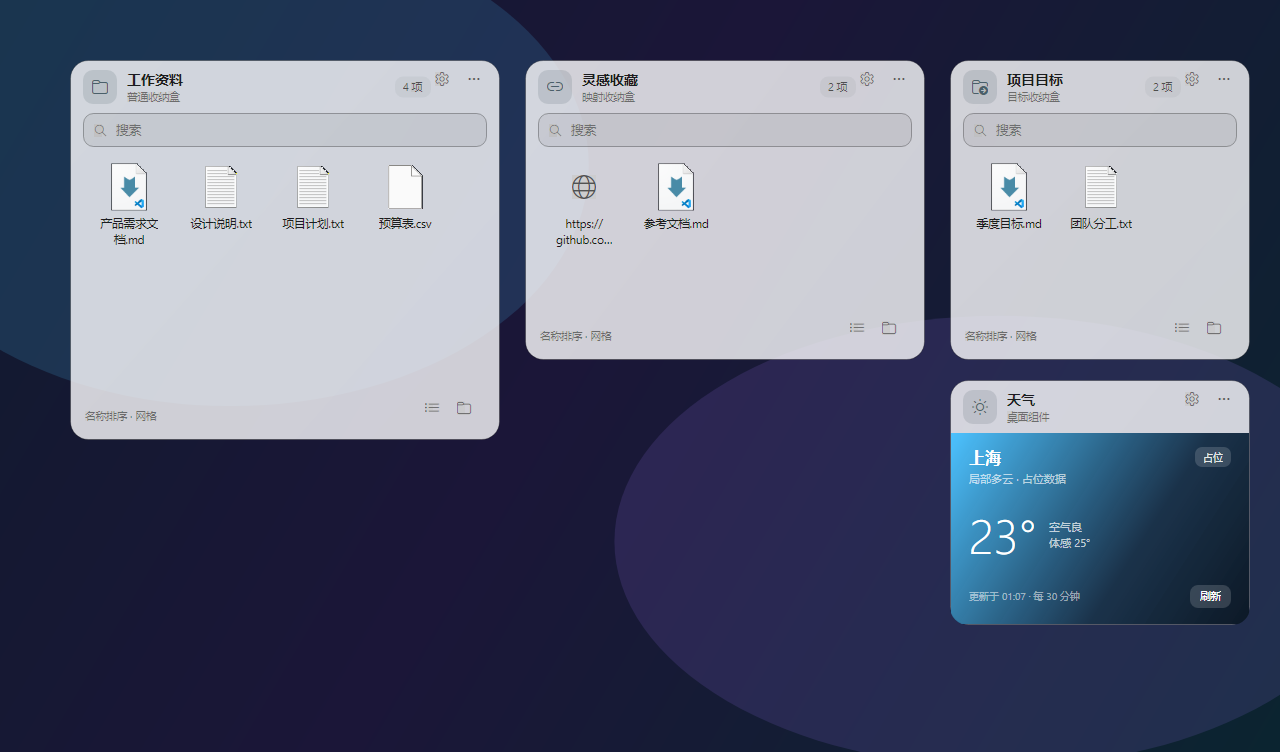
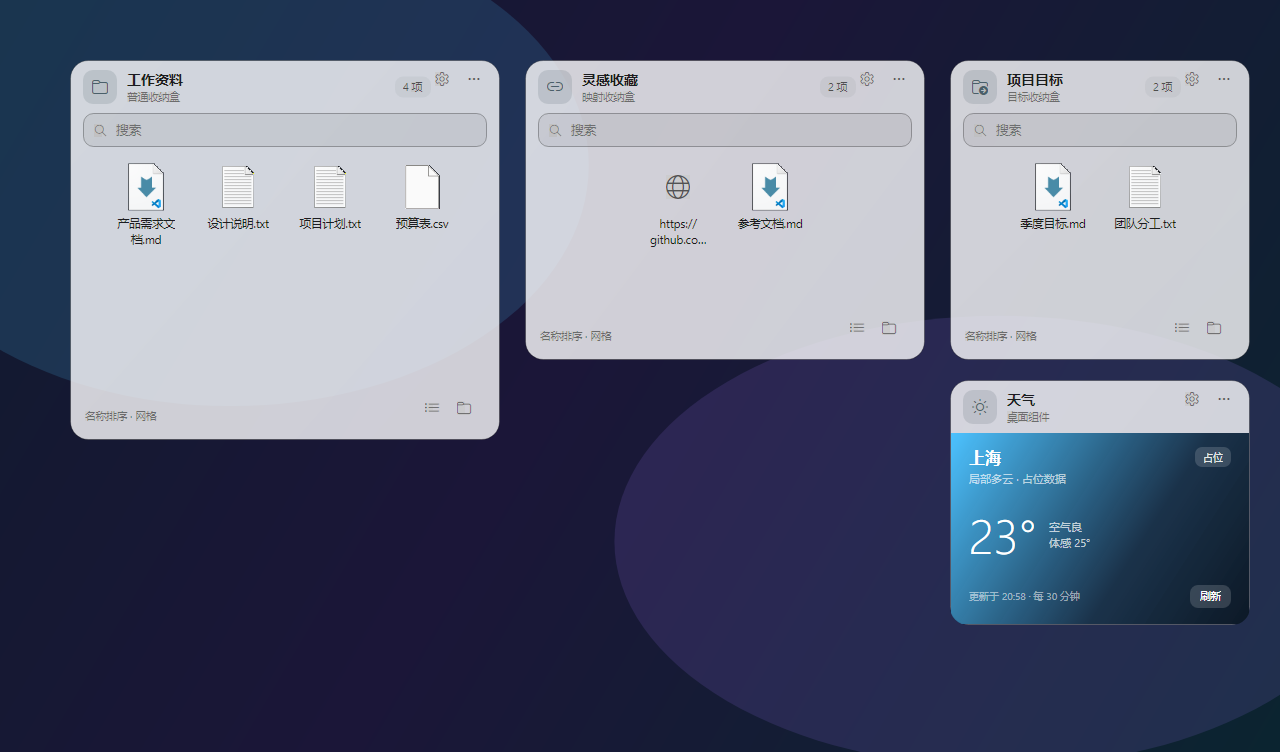
1.0.2：修复收纳盒图标偏移，图标网格与设置页图标居中

diff --git a/src/PocketDesk.Settings/MainWindow.xaml b/src/PocketDesk.Settings/MainWindow.xaml
@@ -63,7 +63,7 @@
             <NavigationView.PaneFooter>
                 <StackPanel Margin="14,4,14,12" Spacing="6">
                     <Button x:Name="RefreshButton" Content="刷新" FontSize="12" Padding="10,5" Click="OnRefreshClick" HorizontalAlignment="Stretch" />
-                    <TextBlock Text="PocketDesk-New 1.0.1" FontSize="10" Opacity="0.55" Margin="2,0,0,0" />
+                    <TextBlock Text="PocketDesk-New 1.0.2" FontSize="10" Opacity="0.55" Margin="2,0,0,0" />
                 </StackPanel>
             </NavigationView.PaneFooter>
             <ScrollViewer x:Name="ContentScroll"

diff --git a/src/PocketDesk.Host/Views/BoxCardContent.cs b/src/PocketDesk.Host/Views/BoxCardContent.cs
@@ -281,7 +281,7 @@ public sealed class BoxCardContent : UserControl
             _list.ItemsPanel = new FuncTemplate<Panel?>(() => new WrapPanel
             {
                 Orientation = Orientation.Horizontal,
-                HorizontalAlignment = HorizontalAlignment.Left,
+                HorizontalAlignment = HorizontalAlignment.Center,
                 VerticalAlignment = VerticalAlignment.Top,
             });
         }
@@ -310,6 +310,8 @@ public sealed class BoxCardContent : UserControl
                 Width = _card.IconSize,
                 Height = _card.IconSize,
                 Stretch = Stretch.Uniform,
+                HorizontalAlignment = HorizontalAlignment.Center,
+                VerticalAlignment = VerticalAlignment.Center,
                 Source = item.Icon,
             };
             var placeholder = new TextBlock
@@ -321,7 +323,13 @@ public sealed class BoxCardContent : UserControl
                 HorizontalAlignment = HorizontalAlignment.Center,
                 VerticalAlignment = VerticalAlignment.Center,
             };
-            var iconLayer = new Grid { Width = _card.IconSize, Height = _card.IconSize };
+            var iconLayer = new Grid
+            {
+                Width = _card.IconSize,
+                Height = _card.IconSize,
+                HorizontalAlignment = HorizontalAlignment.Center,
+                VerticalAlignment = VerticalAlignment.Center,
+            };
             iconLayer.Children.Add(placeholder);
             iconLayer.Children.Add(icon);
             item.PropertyChanged += (_, e) =>
@@ -385,6 +393,8 @@ public sealed class BoxCardContent : UserControl
                 Width = 28,
                 Height = 28,
                 Stretch = Stretch.Uniform,
+                HorizontalAlignment = HorizontalAlignment.Center,
+                VerticalAlignment = VerticalAlignment.Center,
                 Source = item.Icon,
             };
             var placeholder = new TextBlock
@@ -396,7 +406,13 @@ public sealed class BoxCardContent : UserControl
                 HorizontalAlignment = HorizontalAlignment.Center,
                 VerticalAlignment = VerticalAlignment.Center,
             };
-            var iconLayer = new Grid { Width = 32, Height = 32, VerticalAlignment = VerticalAlignment.Center };
+            var iconLayer = new Grid
+            {
+                Width = 32,
+                Height = 32,
+                HorizontalAlignment = HorizontalAlignment.Center,
+                VerticalAlignment = VerticalAlignment.Center,
+            };
             iconLayer.Children.Add(placeholder);
             iconLayer.Children.Add(icon);
             item.PropertyChanged += (_, e) =>

diff --git a/src/PocketDesk.Settings/Ui.cs b/src/PocketDesk.Settings/Ui.cs
@@ -1,4 +1,4 @@
-using Microsoft.UI;
+using Microsoft.UI;
 using Microsoft.UI.Text;
 using Microsoft.UI.Xaml;
 using Microsoft.UI.Xaml.Controls;
@@ -54,6 +54,35 @@ public static class Ui
         Padding = new Thickness(padding),
         Child = child,
     };
+
+    /// <summary>Win11 风格图标底座：强调色淡底 + 居中图标，避免 FontIcon 基线造成的视觉偏移。</summary>
+    public static Grid IconTile(string glyph, double size = 40, double glyphSize = 20, Brush? foreground = null)
+    {
+        var color = foreground ?? Accent;
+        var tile = new Grid
+        {
+            Width = size,
+            Height = size,
+            VerticalAlignment = VerticalAlignment.Center,
+            HorizontalAlignment = HorizontalAlignment.Center,
+        };
+        tile.Children.Add(new Border
+        {
+            Background = color,
+            Opacity = 0.14,
+            CornerRadius = new CornerRadius(size * 0.22),
+        });
+        tile.Children.Add(new FontIcon
+        {
+            Glyph = glyph,
+            FontSize = glyphSize,
+            Foreground = color,
+            HorizontalAlignment = HorizontalAlignment.Center,
+            VerticalAlignment = VerticalAlignment.Center,
+            Margin = new Thickness(0, 1, 0, 0),
+        });
+        return tile;
+    }
 
     public static TextBlock PageTitle(string text) => new()
     {

diff --git a/src/PocketDesk.Settings/Views/WidgetsPage.cs b/src/PocketDesk.Settings/Views/WidgetsPage.cs
@@ -95,13 +95,7 @@ public sealed class WidgetsPage : UserControl
             },
             ColumnSpacing = 10,
         };
-        var icon = new FontIcon
-        {
-            Glyph = type.Glyph,
-            FontSize = 22,
-            Foreground = Ui.Accent,
-            VerticalAlignment = VerticalAlignment.Center,
-        };
+        var icon = Ui.IconTile(type.Glyph, 36, 18);
         top.Children.Add(icon);
 
         var text = new StackPanel { Spacing = 1 };
@@ -178,13 +172,11 @@ public sealed class WidgetsPage : UserControl
             },
             ColumnSpacing = 10,
         };
-        var icon = new FontIcon
-        {
-            Glyph = type?.Glyph ?? "\uE8B7",
-            FontSize = 18,
-            Foreground = selected ? Ui.Accent : Ui.TextSecondary,
-            VerticalAlignment = VerticalAlignment.Center,
-        };
+        var icon = Ui.IconTile(
+            type?.Glyph ?? "\uE8B7",
+            32,
+            16,
+            selected ? Ui.Accent : Ui.TextSecondary);
         grid.Children.Add(icon);
 
         var text = new StackPanel { Spacing = 1, VerticalAlignment = VerticalAlignment.Center };

diff --git a/src/PocketDesk.Settings/Views/BoxesPage.cs b/src/PocketDesk.Settings/Views/BoxesPage.cs
@@ -80,19 +80,13 @@ public sealed class BoxesPage : UserControl
             ColumnSpacing = 12,
         };
 
-        var icon = new FontIcon
+        var iconGlyph = box.Type switch
         {
-            Glyph = box.Type switch
-            {
-                "Mapped" => "\uE71B",
-                "Target" => "\uE8DE",
-                _ => "\uE8B7",
-            },
-            FontSize = 22,
-            Foreground = Ui.Accent,
-            VerticalAlignment = VerticalAlignment.Center,
+            "Mapped" => "\uE71B",
+            "Target" => "\uE8DE",
+            _ => "\uE8B7",
         };
-        header.Children.Add(icon);
+        header.Children.Add(Ui.IconTile(iconGlyph, 40, 20));
 
         var text = new StackPanel { Spacing = 2, VerticalAlignment = VerticalAlignment.Center };
         text.Children.Add(new TextBlock

diff --git a/src/PocketDesk.Shared/AppInfo.cs b/src/PocketDesk.Shared/AppInfo.cs
@@ -4,7 +4,7 @@ namespace PocketDesk.Shared;
 public static class AppInfo
 {
     public const string ProductName = "PocketDesk-New";
-    public const string Version = "1.0.1";
+    public const string Version = "1.0.2";
     public const string HostPipeName = "PocketDeskNew.Host.v1";
     public const string HostMutexName = @"Local\PocketDesk-New.Host";
 

diff --git a/README.md b/README.md
@@ -4,7 +4,14 @@
 
 PocketDesk-New 用 **Avalonia** 实现透明、无焦点、停靠桌面层的组件宿主，用 **WinUI 3** 实现独立的设置界面，两者通过共享契约 + 命名管道 IPC 协作。它复用了旧版 PocketDesk 的 SQLite / Journal / 文件安全逻辑，但把“多窗口收纳盒”重构成了“一个组件层上的卡片”。
 
-> [下载 v1.0.1 安装包](https://github.com/ChunYu520/PocketDesk-New/releases/tag/v1.0.1) · [反馈问题](https://github.com/ChunYu520/PocketDesk-New/issues)
+> [下载 v1.0.2 安装包](https://github.com/ChunYu520/PocketDesk-New/releases/tag/v1.0.2) · [反馈问题](https://github.com/ChunYu520/PocketDesk-New/issues)
+
+## 1.0.2 更新
+
+- **修复收纳盒图标偏移**：网格收纳项改为整体居中排列，2 个图标不再挤在左侧；图标与名称统一居中。
+- **设置页图标对齐**：收纳盒/组件列表使用 Win11 图标底座，图标与标题、副标题垂直居中，修复 FontIcon 基线造成的视觉偏移。
+- **网格/列表图标居中**：列表模式图标在固定列内居中，不再贴左。
+- 版本号提升至 **1.0.2**，重新生成 ARM64 / x64 自包含 MSI。
 
 ## 1.0.1 更新
 
@@ -101,8 +108,8 @@ src\PocketDesk.Settings\bin\Debug\net10.0-windows10.0.26100.0\win-arm64\PocketDe
 输出目录：`C:\Users\Admin1\Desktop\PocketDesk\Pack-new`
 
 ```text
-PocketDesk-New-1.0.1-ARM64.msi
-PocketDesk-New-1.0.1-x64.msi
+PocketDesk-New-1.0.2-ARM64.msi
+PocketDesk-New-1.0.2-x64.msi
 SHA256SUMS.txt
 安装说明-ARM64.txt / 安装说明-x64.txt
 ```

diff --git a/docs/acceptance.md b/docs/acceptance.md
@@ -59,6 +59,7 @@ PASS  设置界面可从宿主打开（托盘/齿轮同一路径）
 10. **三种模式**：普通盒移动文件；映射盒保留源文件；目标盒显示绑定文件夹内容。
 11. **设置**：打开设置，修改圆角/不透明度/主题；卡片即时变化，无需重启宿主；设置窗口使用 Mica + 自定义标题栏。
 12. **组件扩展**：设置 → 组件出现“天气”卡片类型，添加后卡片层出现天气卡片；修改城市/单位/强调色，天气卡片内容即时更新。
+13. **图标对齐**：收纳盒只有 2 个或 4 个收纳项时，整组图标在卡片内水平居中；每项图标与名称居中对齐；设置 → 收纳盒/组件的图标底座与两行文字垂直居中（1.0.2 修复点）。
 
 ## 4. 数据安全验收
 
